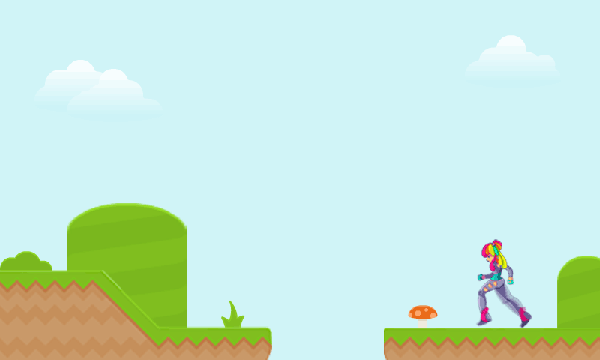
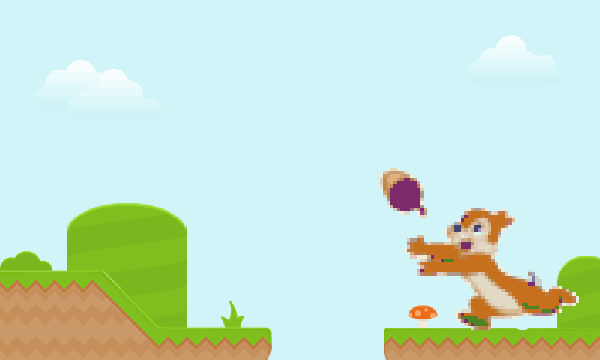
Use chip in animation

Changed region(s): [[0.66, 0.5806, 0.96, 0.9167], [0.63, 0.4583, 0.72, 0.6111]]

diff --git a/kandi.js b/kandi.js
@@ -376,8 +376,10 @@ Vector.prototype.minDist = function(vec) {
  */
 var player = (function(player) {
   // add properties directly to the player imported object
-  player.width     = 60;
-  player.height    = 96;
+  // player.width     = 60;
+  player.width     = 72;
+  // player.height    = 96;
+  player.height    = 64;
   player.speed     = 6;
 
   // jumping
@@ -389,9 +391,12 @@ var player = (function(player) {
 
   // spritesheets
   player.sheet     = new SpriteSheet('imgs/normal_walk.png', player.width, player.height);
-  player.walkAnim  = new Animation(player.sheet, 4, 0, 15);
-  player.jumpAnim  = new Animation(player.sheet, 4, 15, 15);
-  player.fallAnim  = new Animation(player.sheet, 4, 11, 11);
+  // player.walkAnim  = new Animation(player.sheet, 4, 0, 15);
+  // player.jumpAnim  = new Animation(player.sheet, 4, 15, 15);
+  // player.fallAnim  = new Animation(player.sheet, 4, 11, 11);
+  player.walkAnim  = new Animation(player.sheet, 4, 0, 0);
+  player.jumpAnim  = new Animation(player.sheet, 4, 0, 0);
+  player.fallAnim  = new Animation(player.sheet, 4, 0, 0);
   player.anim      = player.walkAnim;
 
   Vector.call(player, 0, 0, 0, player.dy);
